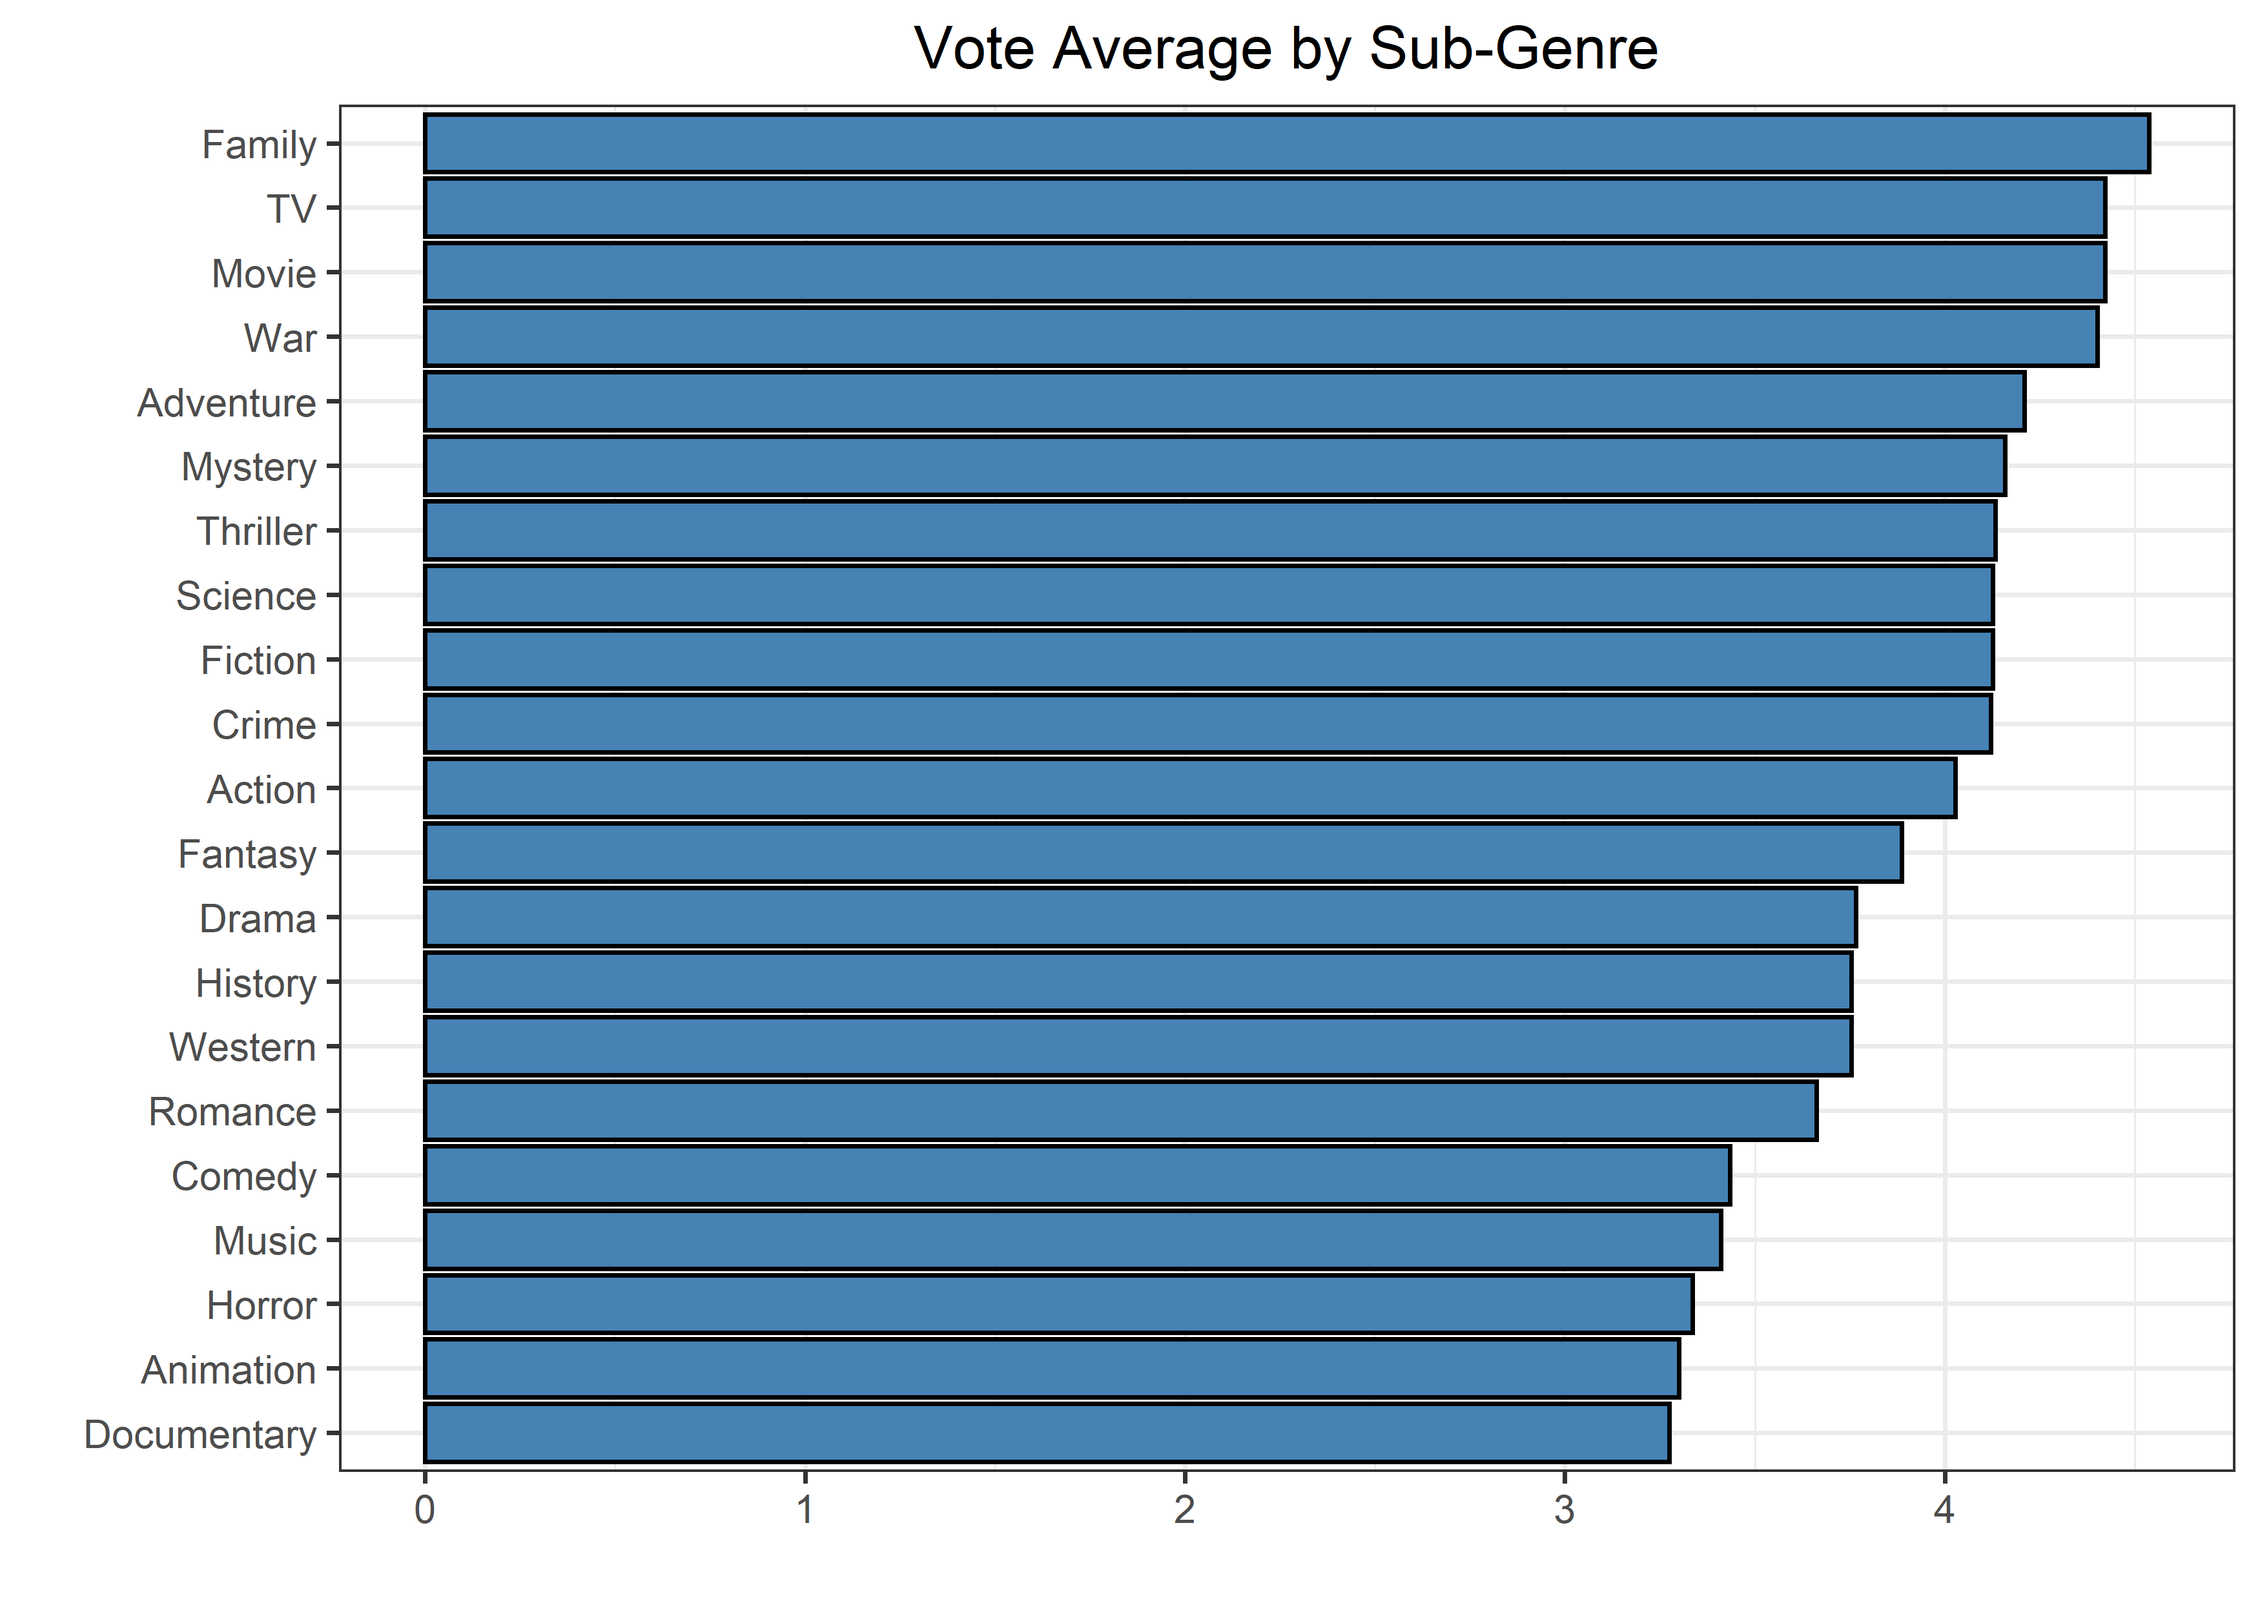
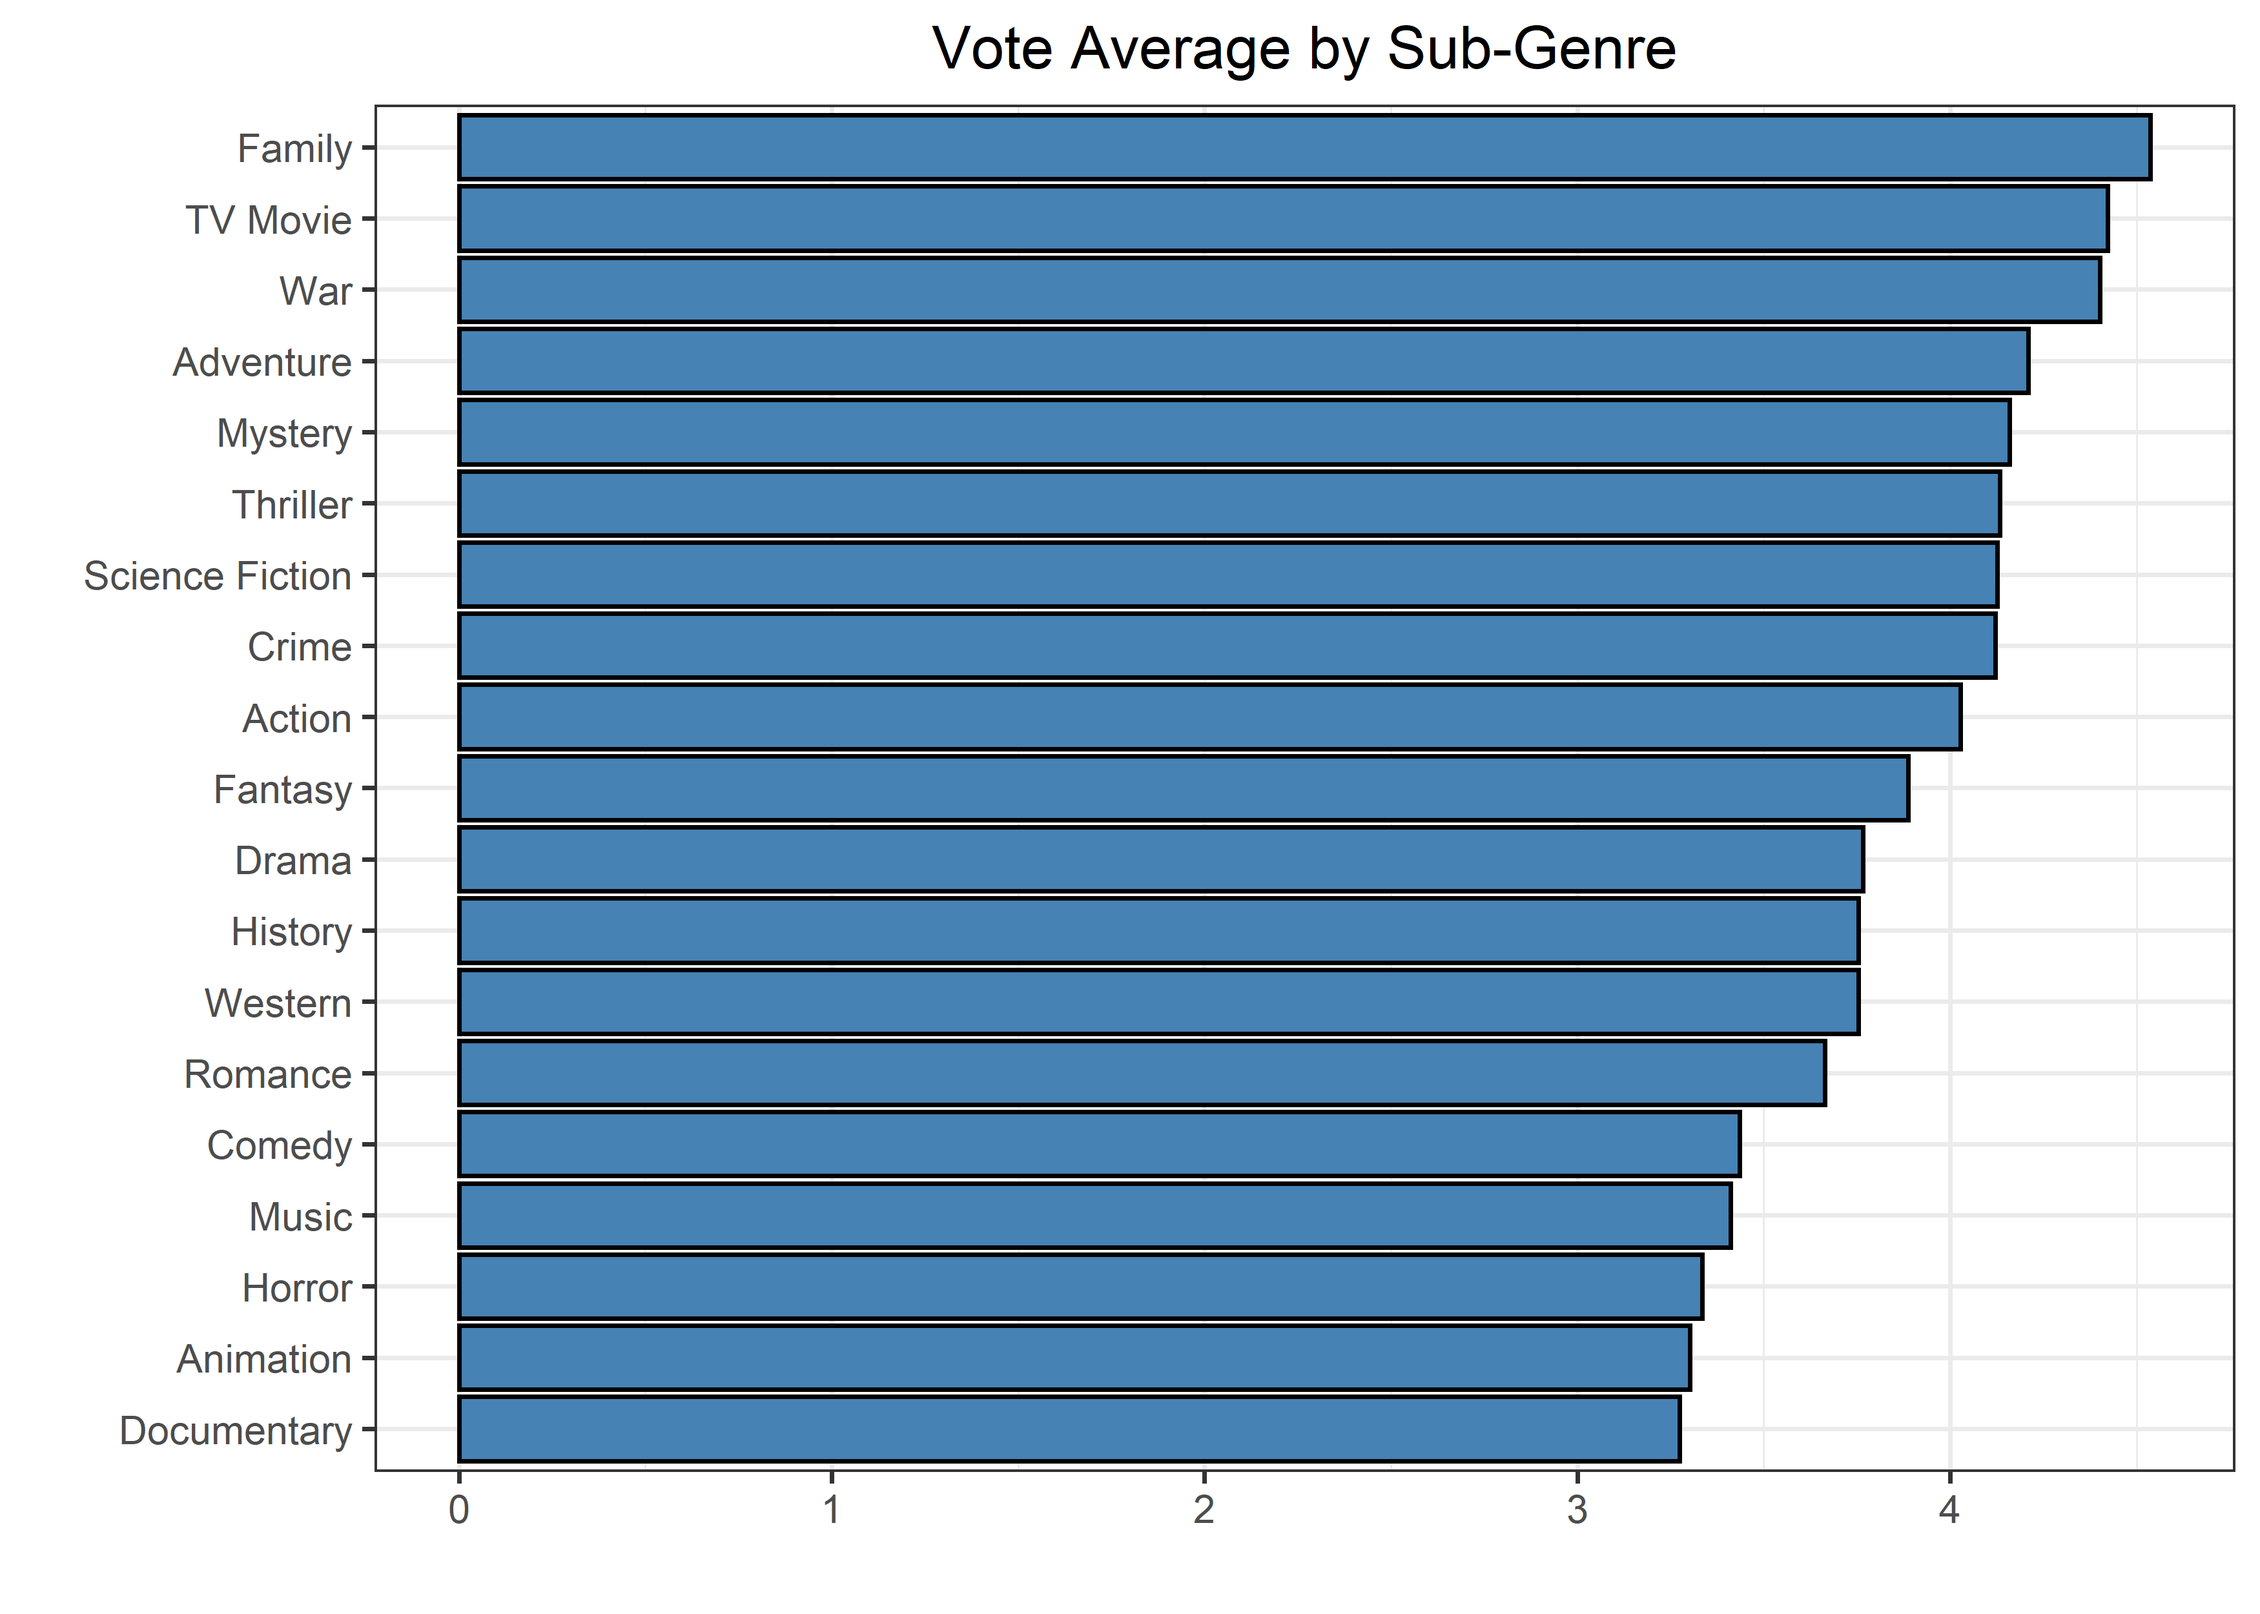
corrections in separate_rows

diff --git a/11-01-22/Horror-Movies.md b/11-01-22/Horror-Movies.md
@@ -24,7 +24,7 @@ horror_movies <- read_csv('https://raw.githubusercontent.com/rfordatascience/tid
 
 ``` r
 horror_movies %>% 
-  separate_rows(genre_names) %>% 
+  separate_rows(genre_names, sep = ", ") %>% 
   group_by(genre_names) %>% 
   summarize(avg = mean(vote_average)) %>% 
   ggplot(aes(avg, fct_reorder(genre_names, avg))) + geom_col(fill = "steelblue", color = "black") +
@@ -35,14 +35,15 @@ horror_movies %>%
 
 ``` r
 horror_movies %>% 
-  separate_rows(genre_names) %>% 
+  separate_rows(genre_names, sep = ", ") %>% 
   mutate(genre_names = fct_lump(genre_names, 10),
-         genre_names = ifelse(genre_names == "Horror", "All", as.character(genre_names))) %>% 
+         genre_names = ifelse(genre_names == "Horror", "All Horrors", as.character(genre_names))) %>% 
   filter(genre_names != "Other") %>% 
   group_by(genre_names) %>% 
   summarize(avg = mean(vote_average)) %>% 
-  ggplot(aes(avg, fct_reorder(genre_names, avg))) + geom_col(fill = "steelblue", color = "black") +
-  labs(y = "", x = "", title = "Vote Average of 10 Most Common Sub-Genres")
+  ggplot(aes(avg, fct_reorder(genre_names, avg))) + geom_col(aes(fill = genre_names == "All Horrors"), color = "black") +
+  labs(y = "", x = "", title = "Vote Average of 10 Most Common Sub-Genres") + geom_text(aes(label = round(avg, 3)), nudge_x = -0.3) +
+  theme(legend.position = "") + scale_fill_manual(values = c("darkorange", "purple"))
 ```
 
 ![](Horror-Movies_files/figure-gfm/unnamed-chunk-3-1.png)<!-- -->
